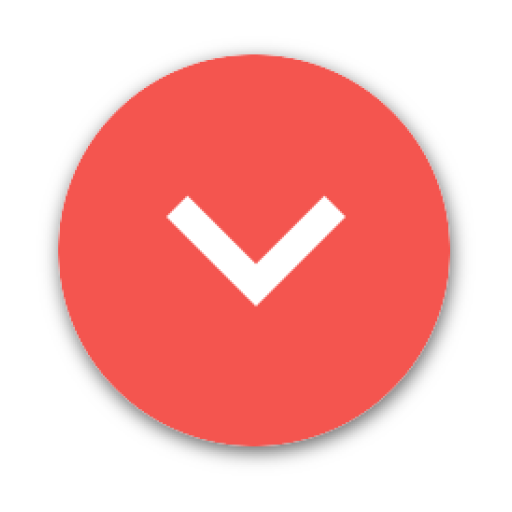
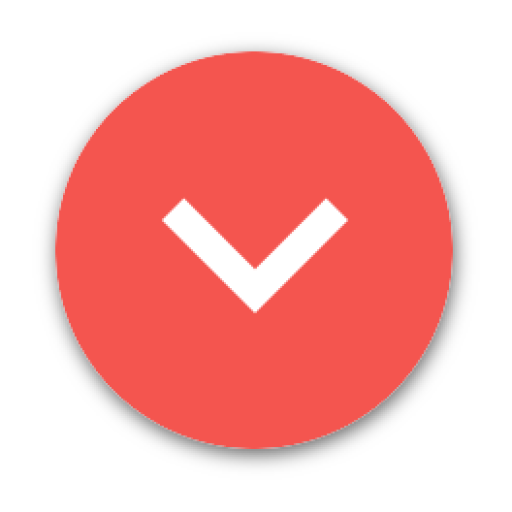
button_hover

diff --git a/app/src/main/java/net/nonylene/photolinkviewer/OptionFragment.java b/app/src/main/java/net/nonylene/photolinkviewer/OptionFragment.java
@@ -71,13 +71,13 @@ public class OptionFragment extends Fragment {
 
         public void onClick(View v) {
             if (open) {
-                baseButton.setImageResource(R.drawable.up_button);
+                baseButton.setImageResource(R.drawable.up_button_design);
                 dlButton.setVisibility(View.GONE);
                 setButton.setVisibility(View.GONE);
                 webButton.setVisibility(View.GONE);
                 open = false;
             } else {
-                baseButton.setImageResource(R.drawable.down_button);
+                baseButton.setImageResource(R.drawable.down_button_design);
                 dlButton.setVisibility(View.VISIBLE);
                 setButton.setVisibility(View.VISIBLE);
                 webButton.setVisibility(View.VISIBLE);

diff --git a/app/src/main/java/net/nonylene/photolinkviewer/ShowFragment.java b/app/src/main/java/net/nonylene/photolinkviewer/ShowFragment.java
@@ -113,7 +113,7 @@ public class ShowFragment extends Fragment {
             matrix.getValues(values);
             //set base zoom param
             basezoom = values[Matrix.MSCALE_X];
-            if (basezoom == 0){
+            if (basezoom == 0) {
                 basezoom = Math.abs(values[Matrix.MSKEW_X]);
             }
             if (first) {
@@ -137,7 +137,7 @@ public class ShowFragment extends Fragment {
             float scale = new_zoom / old_zoom;
             old_zoom = new_zoom;
             if (new_zoom > firstzoom / basezoom * 0.8) {
-                matrix.postScale(scale,scale,touchX,touchY);
+                matrix.postScale(scale, scale, touchX, touchY);
                 imageView.setImageMatrix(matrix);
             }
             return super.onScale(detector);
